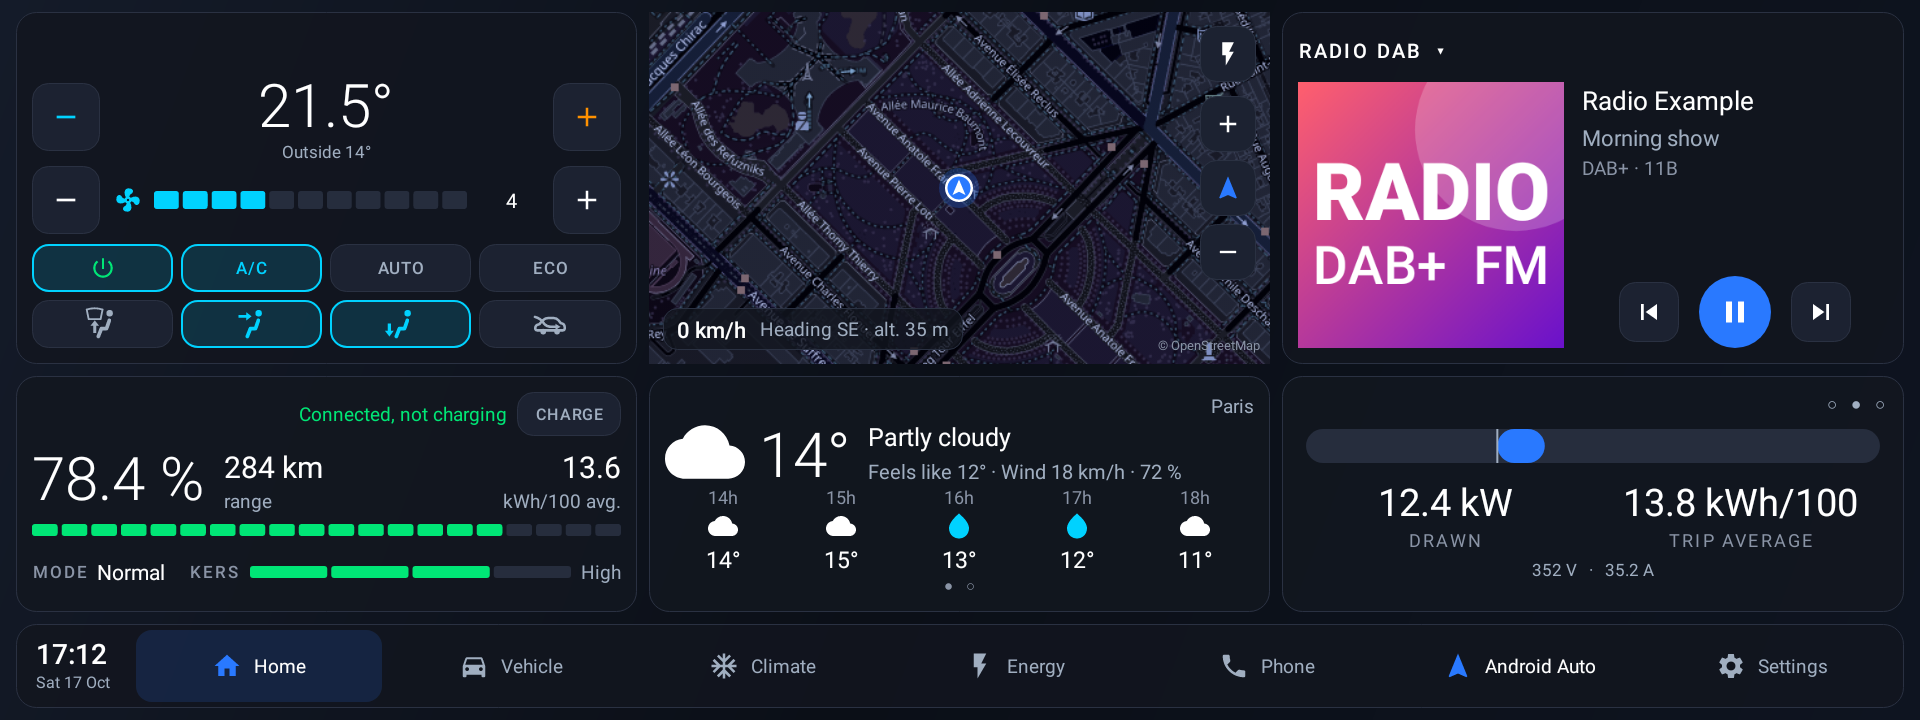
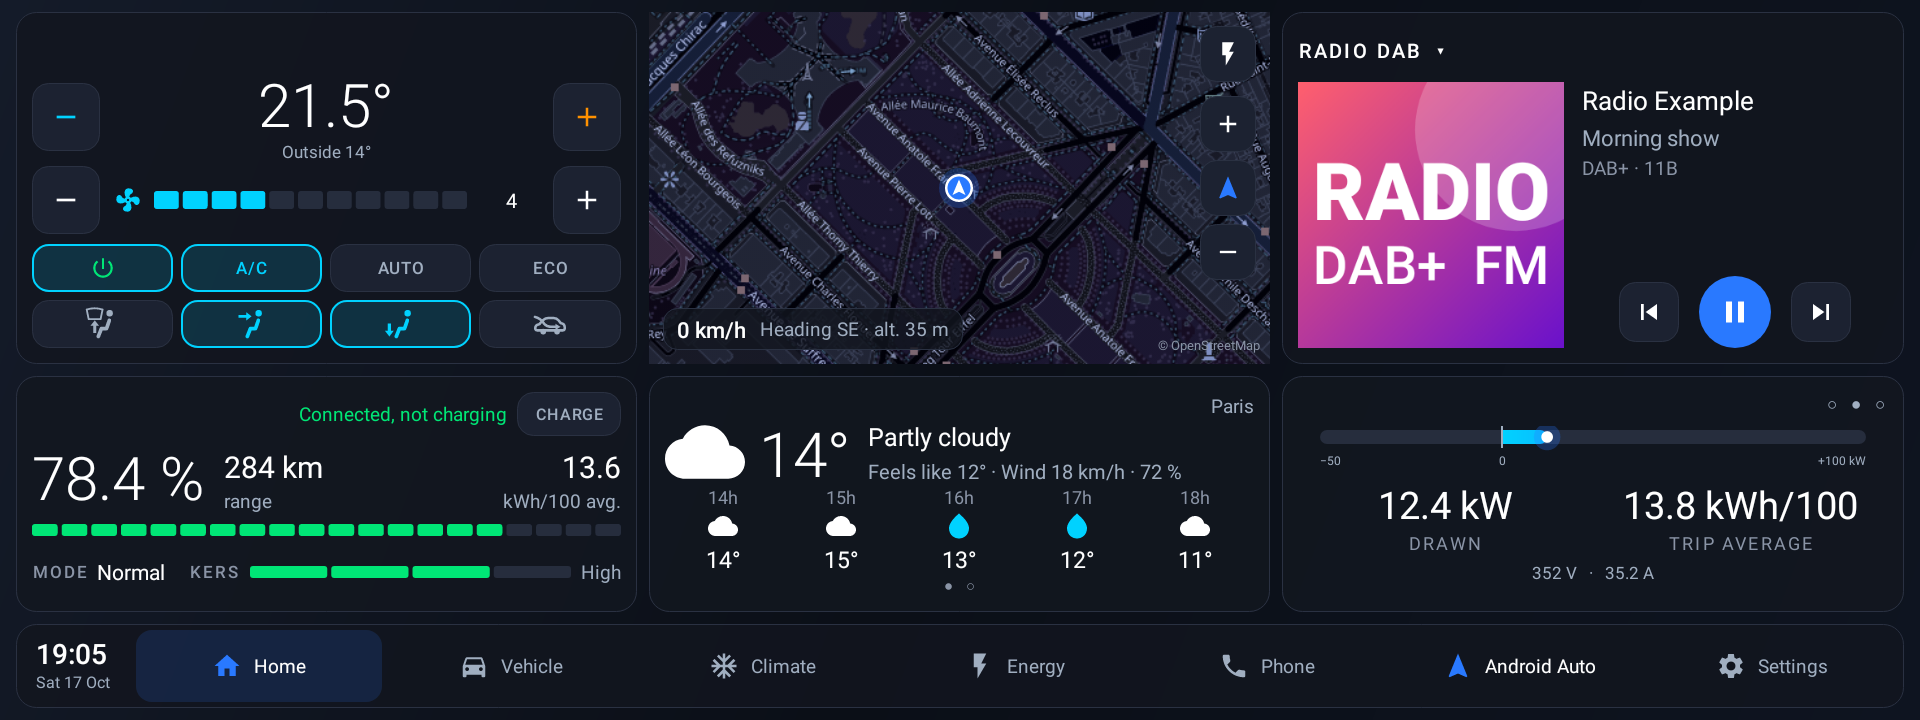
Power bar: two-way bar from zero with a gradient, straight edge at zero, end dot, 10 s peak marker and smooth animation

diff --git a/app/src/main/java/app/mg4dash/ui/Charts.kt b/app/src/main/java/app/mg4dash/ui/Charts.kt
@@ -95,31 +95,113 @@ class LineChart @JvmOverloads constructor(context: Context, attrs: AttributeSet?
  * Puissance instantanée, zéro décalé à gauche : à gauche la récupération (vert, jusqu'à [maxRegenKw]),
  * à droite la puissance tirée de la batterie (couleur des boutons, jusqu'à [maxDrawKw]).
  */
+/**
+ * Barre de puissance bidirectionnelle : le 0 au centre (décalé selon les plages), la consommation part
+ * vers la droite en dégradé (cyan → bleu → orange), la récupération vers la gauche en vert. Le bout côté
+ * 0 est droit, le bout extérieur arrondi avec une pastille. Un repère garde le pic des 10 dernières
+ * secondes puis redescend doucement ; la valeur s'anime.
+ */
 class PowerBar @JvmOverloads constructor(context: Context, attrs: AttributeSet? = null) : View(context, attrs) {
     var kw: Float = 0f
-        set(v) { field = v; invalidate() }
+        set(v) {
+            field = v
+            val now = System.currentTimeMillis()
+            if (v >= peak || now - peakAt > PEAK_HOLD_MS && v > 0f) { if (v >= peak) { peak = v; peakAt = now } }
+            if (v <= -peakRegen || now - peakRegenAt > PEAK_HOLD_MS && v < 0f) { if (-v >= peakRegen) { peakRegen = -v; peakRegenAt = now } }
+            postInvalidateOnAnimation()
+        }
     var maxRegenKw = 50f
     var maxDrawKw = 100f
 
+    private companion object { const val PEAK_HOLD_MS = 10_000L; const val DECAY_KW_PER_S = 8f }
+
     private val paint = Paint(Paint.ANTI_ALIAS_FLAG)
+    private val text = Paint(Paint.ANTI_ALIAS_FLAG)
     private val rect = RectF()
+    private val path = Path()
     private val d = resources.displayMetrics.density
     private val off = app.mg4dash.ui.Themes.color(context, R.color.gauge_off)
     private val regen = app.mg4dash.ui.Themes.color(context, R.color.accent_energy)
+    private val cold = app.mg4dash.ui.Themes.color(context, R.color.accent_cold)
     private val draw = app.mg4dash.ui.Themes.color(context, R.color.accent_action)
+    private val heat = app.mg4dash.ui.Themes.color(context, R.color.accent_heat)
     private val tick = app.mg4dash.ui.Themes.color(context, R.color.text_sub)
 
+    private var shown = 0f          // valeur affichée (animée vers kw)
+    private var first = true
+    private var lastFrame = 0L
+    private var peak = 0f; private var peakAt = 0L
+    private var peakRegen = 0f; private var peakRegenAt = 0L
+
+    /** Barre pleine d'un côté : bout droit au 0, bout extérieur arrondi. */
+    private fun fill(left: Float, top: Float, right: Float, bottom: Float, roundRight: Boolean) {
+        val r = (bottom - top) / 2f
+        val radii = if (roundRight) floatArrayOf(0f, 0f, r, r, r, r, 0f, 0f) else floatArrayOf(r, r, 0f, 0f, 0f, 0f, r, r)
+        path.reset(); rect.set(left, top, right, bottom); path.addRoundRect(rect, radii, Path.Direction.CW)
+    }
+
     override fun onDraw(canvas: Canvas) {
-        val h = height.toFloat(); val w = width.toFloat(); val r = h / 2f
-        val zero = w * maxRegenKw / (maxRegenKw + maxDrawKw)
-        rect.set(0f, 0f, w, h); paint.color = off; canvas.drawRoundRect(rect, r, r, paint)
-        if (kw > 0.05f) {
-            rect.set(zero, 0f, zero + (w - zero) * (kw / maxDrawKw).coerceAtMost(1f), h); paint.color = draw
-            canvas.drawRoundRect(rect, r, r, paint)
-        } else if (kw < -0.05f) {
-            rect.set(zero - zero * (-kw / maxRegenKw).coerceAtMost(1f), 0f, zero, h); paint.color = regen
-            canvas.drawRoundRect(rect, r, r, paint)
+        val w = width.toFloat(); val h = height.toFloat()
+        val now = System.currentTimeMillis()
+        val dt = if (lastFrame == 0L) 0f else ((now - lastFrame) / 1000f).coerceAtMost(0.1f)
+        lastFrame = now
+        // Animation douce de la valeur, et descente lente des pics après 10 s
+        if (first) { shown = kw; first = false }   // premier affichage : directement la valeur
+        shown += (kw - shown) * (1f - Math.exp(-dt * 10.0).toFloat())
+        if (now - peakAt > PEAK_HOLD_MS) peak = maxOf(kw.coerceAtLeast(0f), peak - DECAY_KW_PER_S * dt)
+        if (now - peakRegenAt > PEAK_HOLD_MS) peakRegen = maxOf((-kw).coerceAtLeast(0f), peakRegen - DECAY_KW_PER_S * dt)
+
+        val labels = h >= 26 * d
+        val barH = (if (labels) h * 0.42f else h * 0.6f).coerceAtMost(14 * d)
+        val top = if (labels) 4 * d else (h - barH) / 2f
+        val bottom = top + barH
+        val pad = barH                       // place pour la pastille aux extrémités
+        val x0 = pad; val x1 = w - pad
+        val zero = x0 + (x1 - x0) * maxRegenKw / (maxRegenKw + maxDrawKw)
+        fun xFor(v: Float) = if (v >= 0f) zero + (x1 - zero) * (v / maxDrawKw).coerceIn(0f, 1f)
+            else zero - (zero - x0) * (-v / maxRegenKw).coerceIn(0f, 1f)
+
+        paint.shader = null
+        paint.color = off
+        rect.set(x0, top, x1, bottom); canvas.drawRoundRect(rect, barH / 2f, barH / 2f, paint)
+
+        val end = xFor(shown)
+        if (shown > 0.05f) {
+            paint.shader = LinearGradient(zero, 0f, x1, 0f, intArrayOf(cold, draw, heat), floatArrayOf(0f, 0.55f, 1f), Shader.TileMode.CLAMP)
+            fill(zero, top, maxOf(end, zero + barH), bottom, roundRight = true); canvas.drawPath(path, paint)
+        } else if (shown < -0.05f) {
+            paint.shader = LinearGradient(zero, 0f, x0, 0f, intArrayOf(0x66000000 or (regen and 0xFFFFFF), regen), null, Shader.TileMode.CLAMP)
+            fill(minOf(end, zero - barH), top, zero, bottom, roundRight = false); canvas.drawPath(path, paint)
         }
-        paint.color = tick; canvas.drawRect(zero - d, -0f, zero + d, h, paint)
+        paint.shader = null
+
+        // Pastille au bout, avec un halo
+        if (kotlin.math.abs(shown) > 0.05f) {
+            val col = if (shown > 0f) (if (end > zero + (x1 - zero) * 0.7f) heat else draw) else regen
+            val cy = (top + bottom) / 2f
+            paint.color = col; paint.alpha = 70; canvas.drawCircle(end, cy, barH * 0.95f, paint)
+            paint.alpha = 255; paint.color = 0xFFFFFFFF.toInt(); canvas.drawCircle(end, cy, barH * 0.42f, paint)
+        }
+
+        // Pics des 10 dernières secondes : petit trait au-dessus de la barre
+        paint.color = tick
+        if (peak > 1f && peak > shown + 1f) { val px = xFor(peak); canvas.drawRect(px - d, top - 3 * d, px + d, bottom + 3 * d, paint) }
+        if (peakRegen > 1f && -peakRegen < shown - 1f) {
+            val px = xFor(-peakRegen); paint.color = regen; canvas.drawRect(px - d, top - 3 * d, px + d, bottom + 3 * d, paint)
+        }
+
+        // Repère du 0 et graduations
+        paint.color = tick
+        canvas.drawRect(zero - d, top - 4 * d, zero + d, bottom + 4 * d, paint)
+        if (labels) {
+            text.color = tick; text.textSize = 12 * resources.displayMetrics.scaledDensity
+            val ty = h - 1 * d
+            text.textAlign = Paint.Align.LEFT; canvas.drawText("−${maxRegenKw.toInt()}", x0, ty, text)
+            text.textAlign = Paint.Align.CENTER; canvas.drawText("0", zero, ty, text)
+            text.textAlign = Paint.Align.RIGHT; canvas.drawText("+${maxDrawKw.toInt()} kW", x1, ty, text)
+        }
+
+        // Tant que la valeur bouge ou qu'un pic redescend, on redessine
+        if (kotlin.math.abs(kw - shown) > 0.05f || peak > kw + 0.1f || peakRegen > -kw + 0.1f) postInvalidateOnAnimation() else lastFrame = 0L
     }
 }

diff --git a/app/src/main/java/app/mg4dash/MainActivity.kt b/app/src/main/java/app/mg4dash/MainActivity.kt
@@ -689,7 +689,7 @@ class MainActivity : AppCompatActivity() {
         val d = resources.displayMetrics.density
         // Même présentation que l'énergie du trajet : grosse barre, puis les chiffres en grand
         powerBar = app.mg4dash.ui.PowerBar(this)
-        g.addView(powerBar, LinearLayout.LayoutParams(-1, (34 * d).toInt()).apply { marginStart = (8 * d).toInt(); marginEnd = (8 * d).toInt() })
+        g.addView(powerBar, LinearLayout.LayoutParams(-1, (40 * d).toInt()).apply { marginStart = (8 * d).toInt(); marginEnd = (8 * d).toInt() })
         val row = LinearLayout(this).apply { orientation = LinearLayout.HORIZONTAL }
         val left = statColumn(getString(R.string.sw_drawn), "—", 38f)
         powerValue = left.getChildAt(0) as TextView; powerLabel = left.getChildAt(1) as TextView
